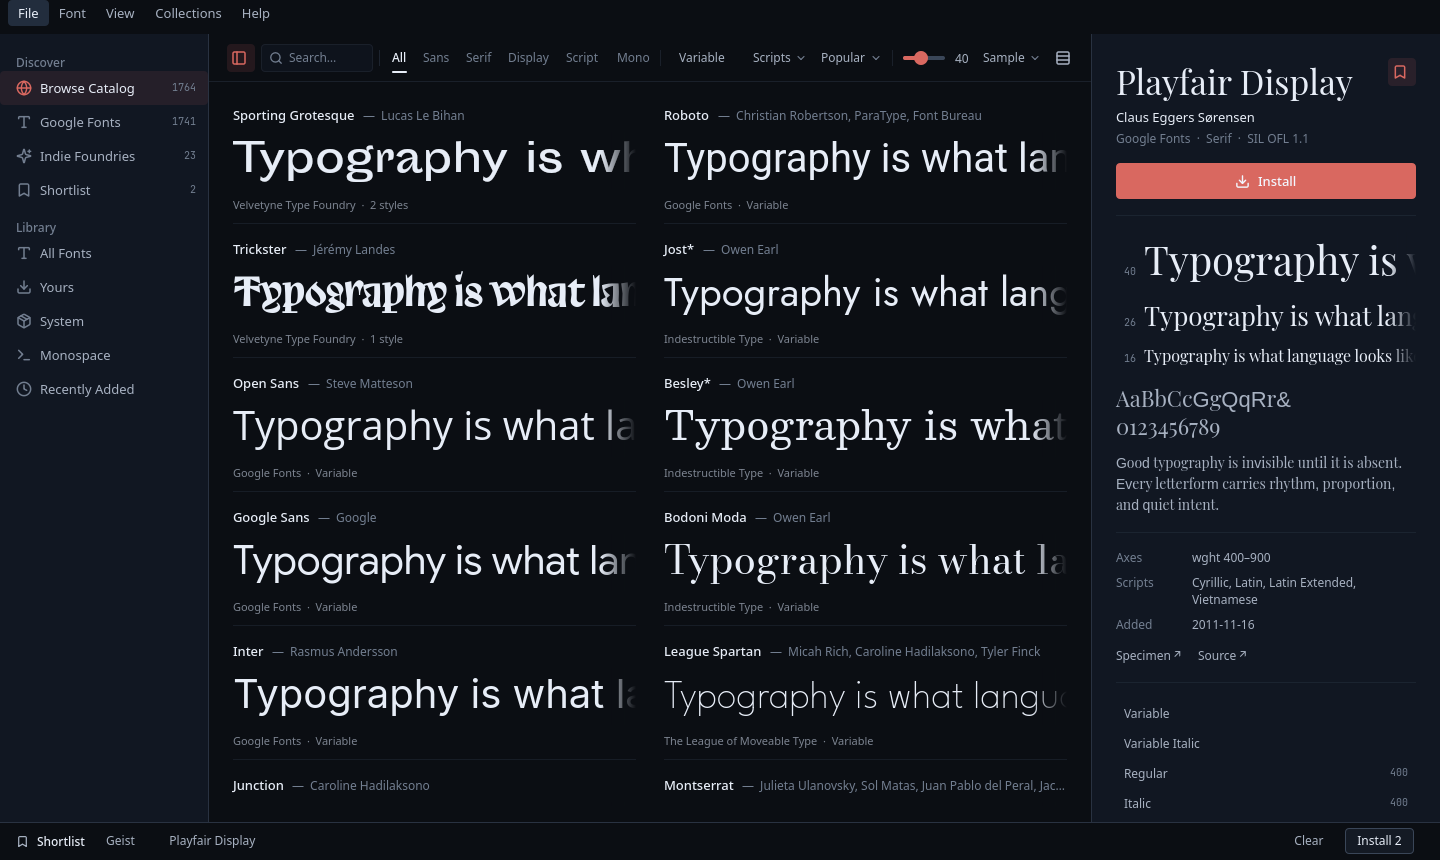
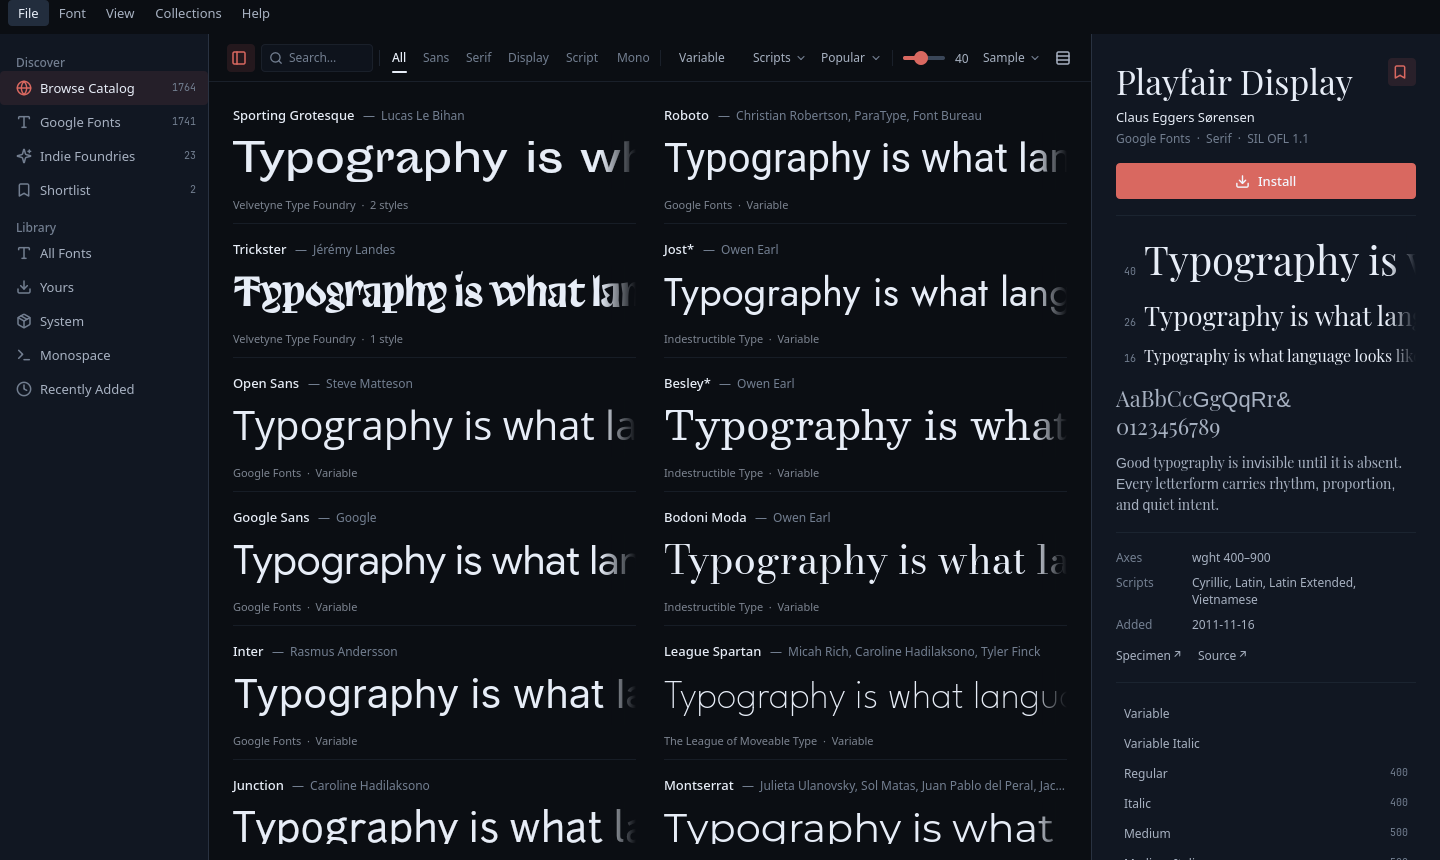
Remove persistent shortlist footer bar; move actions into Shortlist view

diff --git a/src/Main.qml b/src/Main.qml
@@ -465,11 +465,12 @@ ApplicationWindow {
             }
         }
 
-        // Single unified Footer (in Discover mode: merges Shortlist actions when active)
+        // Footer: shown in Library mode, or in Discover mode only when busy / reporting status
         Rectangle {
             objectName: "statusBar"
+            visible: !win.inDiscover || backend.busy || backend.staging || catalog.installingAny || backend.status !== ""
             Layout.fillWidth: true
-            implicitHeight: win.inDiscover && catalog.shortlistCount > 0 ? 38 : Theme.hStatusBar
+            implicitHeight: visible ? Theme.hStatusBar : 0
             color: Theme.windowBg
             Hairline { anchors.top: parent.top; width: parent.width }
             RowLayout {
@@ -477,42 +478,6 @@ ApplicationWindow {
                 anchors.leftMargin: Theme.s4
                 anchors.rightMargin: Theme.s3
                 spacing: Theme.s3
-
-                // Discover shortlist inline in the single footer (items left, actions right, quiet secondary CTA)
-                RowLayout {
-                    visible: win.inDiscover && catalog.shortlistCount > 0
-                    Layout.fillWidth: true
-                    spacing: Theme.s2
-                    Icon { name: "bookmark"; size: 13; color: Theme.textSecondary }
-                    StatusText { text: qsTr("Shortlist"); color: Theme.textPrimary; font.weight: Font.Medium }
-                    Repeater {
-                        model: catalog.shortlistItems.slice(0, 5)
-                        Button {
-                            required property var modelData
-                            flat: true
-                            implicitHeight: 24
-                            text: modelData.family + (modelData.installed ? " ✓" : "")
-                            font.pixelSize: Theme.fsLabel
-                            onClicked: catalog.selectFamily(modelData.id)
-                        }
-                    }
-                    StatusText { visible: catalog.shortlistCount > 5; text: qsTr("+%1").arg(catalog.shortlistCount - 5) }
-                    Item { Layout.fillWidth: true }
-                    Button { flat: true; implicitHeight: 24; text: qsTr("Clear"); font.pixelSize: Theme.fsLabel; onClicked: catalog.clearShortlist() }
-                    Button {
-                        implicitHeight: 26
-                        text: qsTr("Install %1").arg(catalog.shortlistCount)
-                        font.pixelSize: Theme.fsLabel
-                        enabled: !catalog.installingAny
-                        onClicked: catalog.installShortlist()
-                    }
-                }
-
-                // Quiet count when Discover has no shortlist
-                StatusText {
-                    visible: win.inDiscover && catalog.shortlistCount === 0
-                    text: catalog.loading ? qsTr("Loading catalog…") : Theme.plural(catalog.filteredCount, qsTr("typeface"), qsTr("typefaces"))
-                }
 
                 // Library footer cells
                 StatusText { visible: !win.inDiscover; text: backend.sourceTitle; color: Theme.textPrimary; font.weight: Theme.wHeading }

diff --git a/src/CatalogView.qml b/src/CatalogView.qml
@@ -302,6 +302,35 @@ Rectangle {
             Rectangle { anchors.bottom: parent.bottom; width: parent.width; height: Theme.hairline; color: Theme.withAlpha(Theme.border, 0.5) }
         }
 
+        // ── Contextual Shortlist actions (only when viewing Shortlist) ──────
+        Rectangle {
+            visible: catalog.sourceFilter === "shortlist" && catalog.shortlistCount > 0
+            Layout.fillWidth: true
+            implicitHeight: visible ? 40 : 0
+            color: Theme.windowBg
+            RowLayout {
+                anchors.fill: parent
+                anchors.leftMargin: Theme.s5
+                anchors.rightMargin: Theme.s5
+                spacing: Theme.s2
+                Label {
+                    text: Theme.plural(catalog.shortlistCount, qsTr("shortlisted typeface"), qsTr("shortlisted typefaces"))
+                    color: Theme.textSecondary
+                    font.pixelSize: Theme.fsLabel
+                }
+                Item { Layout.fillWidth: true }
+                Button { flat: true; implicitHeight: 26; text: qsTr("Clear"); font.pixelSize: Theme.fsLabel; onClicked: catalog.clearShortlist() }
+                Button {
+                    implicitHeight: 26
+                    text: qsTr("Install all")
+                    font.pixelSize: Theme.fsLabel
+                    enabled: !catalog.installingAny
+                    onClicked: catalog.installShortlist()
+                }
+            }
+            Rectangle { anchors.bottom: parent.bottom; width: parent.width; height: Theme.hairline; color: Theme.withAlpha(Theme.border, 0.45) }
+        }
+
         // ── Optional custom sample input (only shown when user clicks "Type custom text…") ─
         Rectangle {
             visible: root.editingSample
